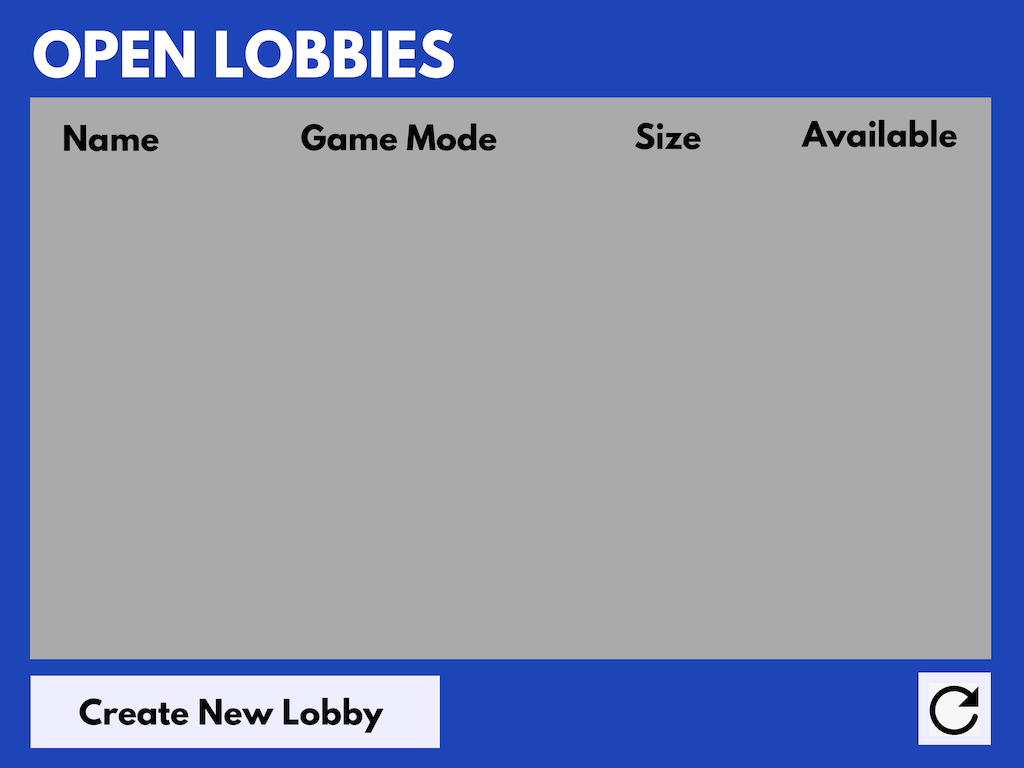
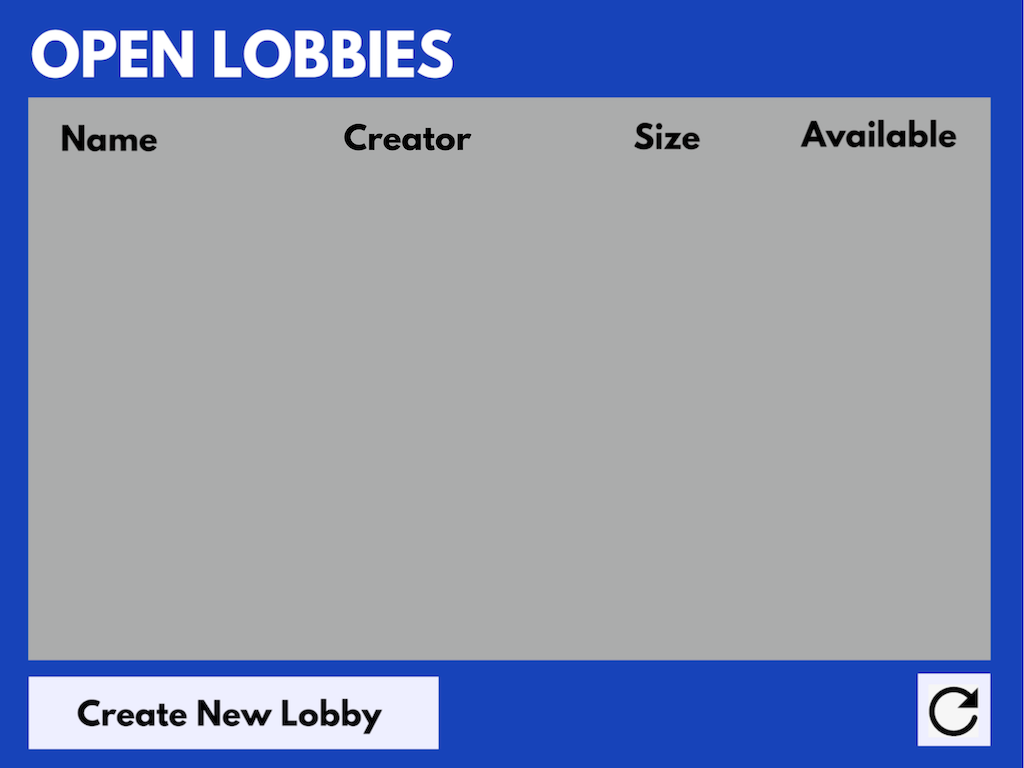
displayAvailableGames()

diff --git a/client/ClientMain.java b/client/ClientMain.java
@@ -44,7 +44,6 @@ import kong.unirest.HttpResponse;
 import java.net.HttpURLConnection;
 
 public class ClientMain {
-
     // fields
     GUI gui;
     MinuetoEventQueue entryScreenQueue, loginScreenQueue, moveBootQueue, lobbyScreenQueue, createGameQueue,
@@ -58,7 +57,7 @@ public class ClientMain {
     MinuetoImage playScreenImage;
     MinuetoImage loginScreenImage;
     MinuetoImage whiteBoxImage;
-    MinuetoImage lobbyBackground;
+    private static MinuetoImage lobbyBackground;
     MinuetoImage lobbyPrevBackground;
     MinuetoImage lobbyNextBackground;
     MinuetoImage lobbyPrevNextBackground;
@@ -110,7 +109,6 @@ public class ClientMain {
 
                 // TODO: Add create lobby instance
                 // create lobby instance if it's not there already
-
                 gui.currentBackground = GUI.Screen.LOGIN;
             }
 
@@ -208,6 +206,7 @@ public class ClientMain {
                         System.out.println("Error: failed to login a user.");
                     }
                     // change screen after login
+                    displayAvailableGames();
                     gui.currentBackground = GUI.Screen.LOBBY;
                 }
             }
@@ -245,16 +244,11 @@ public class ClientMain {
         public void handleKeyPress(int i) {
             // press on enter key takes you to the next screen
             if (i == MinuetoKeyboard.KEY_ENTER) {
-                try {
-                    ServerMain.getAvailableGames(); // retrieves all game services in the API
-                    ServerMain.getAvailableSessions(); // retrieves all game sessions in the API
-                } catch (IOException | ParseException e) {
-                    e.printStackTrace();
-                    // if we in this catch block then there are no available game services or
-                    // sessions
-                    // TODO: for additional functionality, we can put a message that says "there are
-                    // no game lobbies, please create one or use the refresh button"
-                }
+                // TODO: owen add login verification here
+
+                // switch to lobby screen if login ok
+                displayAvailableGames();
+                gui.currentBackground = GUI.Screen.LOBBY;
             }
             // TAB used to switch boxes
             else if (i == 9 && userNameSel) {
@@ -413,12 +407,15 @@ public class ClientMain {
         @Override
         public void handleMousePress(int x, int y, int button) {
 
+            System.out.println("x:" + x + " y:" + y);
+
             if (x >= 30 && x <= 440 && y >= 680 && y <= 750) {
                 // click on Create New Game button
                 gui.currentBackground = GUI.Screen.CREATELOBBY;
             } else if (x >= 920 && x <= 990 && y >= 675 && y <= 745) {
                 // click on the Refresh button
-
+                // TODO: test this when there is a difference in between refreshes
+                displayAvailableGames();
             }
 
             if (x > 1000 && y > 740) {
@@ -532,6 +529,7 @@ public class ClientMain {
                     }
                 } else if (x >= 330 && x <= 695 && y <= 725 && y >= 665) {
                     // click on the Return to Open Lobbies button
+                    displayAvailableGames();
                     gui.currentBackground = GUI.Screen.LOBBY;
                 } else if (x >= 290 && x <= 535 && y <= 400 && y >= 340) { // 245x60
                     // click on Elfenland
@@ -597,6 +595,7 @@ public class ClientMain {
                 // click on Leave button
                 // TODO: remove the user from the lobby and send this message to all players
                 // TODO: return the user to the open lobbies page
+                displayAvailableGames();
                 gui.currentBackground = GUI.Screen.LOBBY;
             } else if (x >= 822 & x <= 998 && y <= 655 && y >= 585) {
                 // click on Ready? button
@@ -990,7 +989,7 @@ public class ClientMain {
         }
     }
 
-    private static JSONObject createAccessToken() throws IOException, ParseException {
+    static JSONObject createAccessToken() throws IOException, ParseException {
         URL url = new URL("http://127.0.0.1:4242/oauth/token?grant_type=password&username=maex&password=abc123_ABC123");
         HttpURLConnection con = (HttpURLConnection) url.openConnection();
         con.setRequestMethod("POST");
@@ -1134,5 +1133,66 @@ public class ClientMain {
     static void resumeSound() {
         // loadedClip.setMicrosecondPosition(clipPos);
         loadedClip.start();
+    }
+
+    public static void displayAvailableGames() {
+        // TODO: can I handle the try/catch elsewhere? (lilia)
+        MinuetoFont font = new MinuetoFont("Arial", 22, true, false);
+        try {
+            ArrayList<LobbyServiceGame> availableGamesList = ServerMain.getAvailableGames();
+            ArrayList<LobbyServiceGameSession> availableSessionsList = ServerMain.getAvailableSessions();
+
+            if (availableSessionsList.size() == 0 && availableGamesList.size() == 0) {
+                MinuetoText noneAvailableText = new MinuetoText("There are no games yet. Please refresh or create a new game.", font, MinuetoColor.BLACK);
+                lobbyBackground.draw(noneAvailableText, 200, 340);
+            }
+
+            int counter = 0; // count how many games services + sessions have been displayed so far
+
+            // display available game services (i.e. games with no creator)
+            for (LobbyServiceGame g : availableGamesList) {
+                String gDisplayName = g.getDisplayName();
+                String gMaxPlayers = String.valueOf(g.getMaxNumberOfPlayers());
+
+                MinuetoText displayName = new MinuetoText(gDisplayName, font, MinuetoColor.BLACK);
+                MinuetoText creator = new MinuetoText("No creator", font, MinuetoColor.BLACK);
+                MinuetoText size = new MinuetoText("0/"+gMaxPlayers, font, MinuetoColor.BLACK);
+                MinuetoRectangle joinButton = new MinuetoRectangle(100, 50, MinuetoColor.WHITE, true);
+                MinuetoText joinText = new MinuetoText("JOIN", font, MinuetoColor.BLACK);
+
+                lobbyBackground.draw(displayName, 65, 215+(counter*50));
+                lobbyBackground.draw(creator, 305, 215+(counter*50));
+                lobbyBackground.draw(size, 640, 215+(counter*50));
+                lobbyBackground.draw(joinButton, 805, 215+(counter*50));
+                lobbyBackground.draw(joinText, 815, 215+(counter*50));
+            }
+
+            // display available game sessions (i.e. games with a creator)
+            for (LobbyServiceGameSession gs : availableSessionsList){
+                if (!gs.isLaunched()) { // only show unlaunched sessions
+                    String gsName = gs.getGameService().getDisplayName();
+                    String gsCreator = gs.getCreator();
+                    String gsCurrentPlayerNumber = String.valueOf(gs.getNumberOfPlayersCurrently());
+                    String gsMaxPlayerNumber = String.valueOf(gs.getGameService().getMaxNumberOfPlayers());
+
+                    MinuetoText displayName = new MinuetoText(gsName, font, MinuetoColor.BLACK);
+                    MinuetoText creator = new MinuetoText(gsCreator, font, MinuetoColor.BLACK);
+                    MinuetoText size = new MinuetoText(gsCurrentPlayerNumber+"/"+gsMaxPlayerNumber, font, MinuetoColor.BLACK);
+                    MinuetoRectangle joinButton = new MinuetoRectangle(100, 50, MinuetoColor.WHITE, true);
+                    MinuetoText joinText = new MinuetoText("JOIN", font, MinuetoColor.BLACK);
+
+                    lobbyBackground.draw(displayName, 65, 215+(counter*50));
+                    lobbyBackground.draw(creator, 305, 215+(counter*50));
+                    lobbyBackground.draw(size, 640, 215+(counter*50));
+                    lobbyBackground.draw(joinButton, 805, 215+(counter*50));
+                    lobbyBackground.draw(joinText, 815, 215+(counter*50));
+                }
+            }
+
+        } catch (IOException e) {
+            e.printStackTrace();
+        } catch (ParseException e) {
+            e.printStackTrace();
+        }
     }
 }

diff --git a/server/ServerMain.java b/server/ServerMain.java
@@ -1,4 +1,7 @@
 // API requests and parsing
+import kong.unirest.HttpResponse;
+import kong.unirest.JsonNode;
+import kong.unirest.Unirest;
 import org.json.simple.JSONArray;
 import org.json.simple.JSONObject;
 import org.json.simple.parser.JSONParser;
@@ -12,13 +15,26 @@ import java.net.MalformedURLException;
 import java.net.URL;
 
 // other
+import java.nio.charset.StandardCharsets;
 import java.util.ArrayList;
 import java.util.Arrays;
+import java.util.Base64;
 
 public class ServerMain {
 
+    private static JSONObject token;
 
-    public static void main(String[] args) {
+
+    public static void main(String[] args) throws IOException, ParseException {
+
+        try {
+            token = ClientMain.createAccessToken();
+        } catch (IOException | ParseException e) {
+            e.printStackTrace();
+            System.err.println("Error: could not create access token.");
+        }
+
+        getAvailableSessions();
 
     }
 
@@ -51,17 +67,15 @@ public class ServerMain {
      * @param numberOfRounds number of rounds this game will have
      * @param mode elfenland or elfengold
      * @param witchEnabled true if the witch can be used, false otherwise
-     * @param destinationTownEnabled true if players will have a destionation town, false otherwise
+     * @param destinationTownEnabled true if players will have a destination town, false otherwise
      */
     public static void createNewGame(String displayName, int numberOfPlayers, int numberOfRounds, Mode mode, boolean witchEnabled, boolean destinationTownEnabled) throws IOException {
-        // TODO: Lilia check with Lingjia if the new operation definition makes sense
 
         // turn displayName into a name by replacing spaces with dashes
         String name = displayName.replace(" ", "-");
 
         // send a request to LS to create a new game
-        URL url = new URL("http://127.0.0.1:4242/api/gameservices/" + name + "?access_token=dA/1to5bFiRvqTem0eiUzY2FITw=");
-        // TODO: access token in the above line??
+        URL url = new URL("http://127.0.0.1:4242/api/gameservices/" + name + "?access_token=" + token.get("access_token"));
         HttpURLConnection con = (HttpURLConnection) url.openConnection();
         con.setRequestMethod("PUT");
         con.setRequestProperty("Content-Type", "application/json");
@@ -178,21 +192,20 @@ public class ServerMain {
                 String saveGameID = (String) sessionJSON.get("savegameid");
 
                 // Object gameParameters = sessionJSON.get("gameParameters");
-
+                /*
                 String playerListInStringForm = (String) sessionJSON.get("players");
                 playerListInStringForm = playerListInStringForm.replace("[", "");
                 playerListInStringForm = playerListInStringForm.replace("]", "");
                 String[] playerListInArrayForm = playerListInStringForm.split(",");
-                ArrayList<String> playerNames = (ArrayList<String>) Arrays.asList(playerListInArrayForm);
+                ArrayList<String> playerNames = (ArrayList<String>) Arrays.asList(playerListInArrayForm);*/
 
-                availableSessions.add(new LobbyServiceGameSession(launched, playerNames, saveGameID));
+                //availableSessions.add(new LobbyServiceGameSession(launched, saveGameID, creator, ));
 
             });
         } catch (NullPointerException e) {
             // there are no available sessions
-            System.out.println("there are no sessions");
         }
-        return availableSessions;
+        return availableSessions; // todo: this returns null right now
     }
 
     /**

diff --git a/server/LobbyServiceGame.java b/server/LobbyServiceGame.java
@@ -1,11 +1,13 @@
 /*
-Instances of LobbyServiceGame represent one available game on the lobby service.
+Instances of LobbyServiceGame represent one available game service on the lobby service.
  */
 
 import org.minueto.MinuetoColor;
 import org.minueto.image.MinuetoFont;
 import org.minueto.image.MinuetoRectangle;
 import org.minueto.image.MinuetoText;
+
+import java.util.ArrayList;
 
 public class LobbyServiceGame {
 
@@ -51,23 +53,18 @@ public class LobbyServiceGame {
         return maxNumberOfPlayers;
     }
 
+
     /**
-     *  Create all minueto objects that are needed to display information about the game
+     * Create a new session for this game service.
+     * @param user user that initiates this operation
+     * @param saveGameID id of the previously saved game. If there is none, put "".
+     * @return the newly created LobbyServiceGameSession
+     * @post The user that initiates this operation becomes the creator of the session and is one of the players.
      */
-    public void buildDisplay() {
-
-
-        // background
-        MinuetoRectangle rectangle = new MinuetoRectangle(50, 1000, MinuetoColor.WHITE, true);
-
-        // display name
-        MinuetoFont fontArial14 = new MinuetoFont("Arial",14,false, false);
-        MinuetoText name = new MinuetoText(displayName,fontArial14,MinuetoColor.BLACK);
-
-        // I think when a LobbyServiceGame has an active session, then we should use activeSession.buildDisplay() instead.
-        // They are different because Session has a number of current players shown but Game does not
-
-
+    public LobbyServiceGameSession createSessionFromGameService(User user, String saveGameID) {
+        LobbyServiceGameSession newSession = new LobbyServiceGameSession(false, "", user.getName(), this);
+        this.activeSession = newSession;
+        return newSession;
     }
 
 

diff --git a/server/LobbyServiceGameSession.java b/server/LobbyServiceGameSession.java
@@ -9,17 +9,44 @@ import java.util.ArrayList;
 public class LobbyServiceGameSession {
 
     // fields
-    boolean launched;
-    ArrayList<String> players; //TODO: this will be ArrayList<Player> later
-    int numberOfPlayersCurrently;
-    String saveGameID;
+    private boolean launched;
+    private ArrayList<String> players; //TODO: this will be ArrayList<Player> later
+    private int numberOfPlayersCurrently;
+    private String saveGameID;
+    private String creator;
+    private LobbyServiceGame gameService;
 
 
-    LobbyServiceGameSession(boolean launched, ArrayList<String> players, String saveGameID) {
+    LobbyServiceGameSession(boolean launched, String saveGameID, String creator, LobbyServiceGame gameService) {
         this.launched = launched;
-        this.players = players;
         this.saveGameID = saveGameID;
         this.numberOfPlayersCurrently = players.size();
+        this.creator = creator;
+        this.gameService = gameService;
+    }
+
+    public boolean isLaunched() {
+        return launched;
+    }
+
+    public ArrayList<String> getPlayers() {
+        return players;
+    }
+
+    public int getNumberOfPlayersCurrently() {
+        return numberOfPlayersCurrently;
+    }
+
+    public String getSaveGameID() {
+        return saveGameID;
+    }
+
+    public String getCreator() {
+        return creator;
+    }
+
+    public LobbyServiceGame getGameService() {
+        return gameService;
     }
 
     /**

diff --git a/client/User.java b/client/User.java
@@ -7,10 +7,16 @@ import java.io.IOException;
 public class User {
 
     // FIELDS
-
+    String name;
 
     // CONSTRUCTOR
+    public User(String name) {
+        this.name = name;
+    }
 
+    public String getName() {
+        return name;
+    }
 
     // OPERATIONS
     /*
